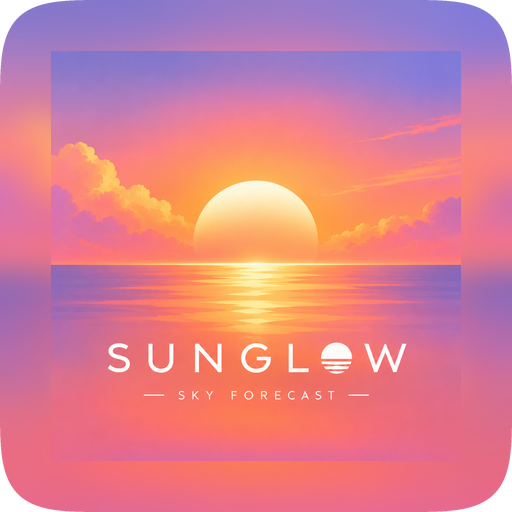
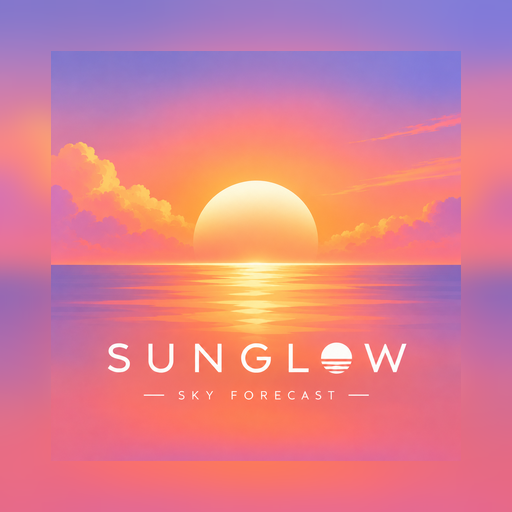
修复：maskable 图标恢复不透明方图
圆角只保留在 any 图标上给 Windows 用；maskable 回退为满幅不透明方图，避免安卓自适应遮罩裁到透明角形成边缘瑕疵。SW 缓存版本升到 pwa-6。

diff --git a/sw.js b/sw.js
@@ -7,7 +7,7 @@
      · 一切跨域请求（open-meteo、map.qq.com）：直接放行，不进缓存
    版本号变更即在 activate 里清掉旧缓存。
    ========================================================================= */
-const VERSION = "glowcast-v2-pwa-5";
+const VERSION = "glowcast-v2-pwa-6";
 const CORE = [
   "./",
   "./index.html",

diff --git a/v2/sw.js b/v2/sw.js
@@ -7,7 +7,7 @@
      · 一切跨域请求（open-meteo、map.qq.com）：直接放行，不进缓存
    版本号变更即在 activate 里清掉旧缓存。
    ========================================================================= */
-const VERSION = "glowcast-v2-pwa-5";
+const VERSION = "glowcast-v2-pwa-6";
 const CORE = [
   "./",
   "./index.html",
